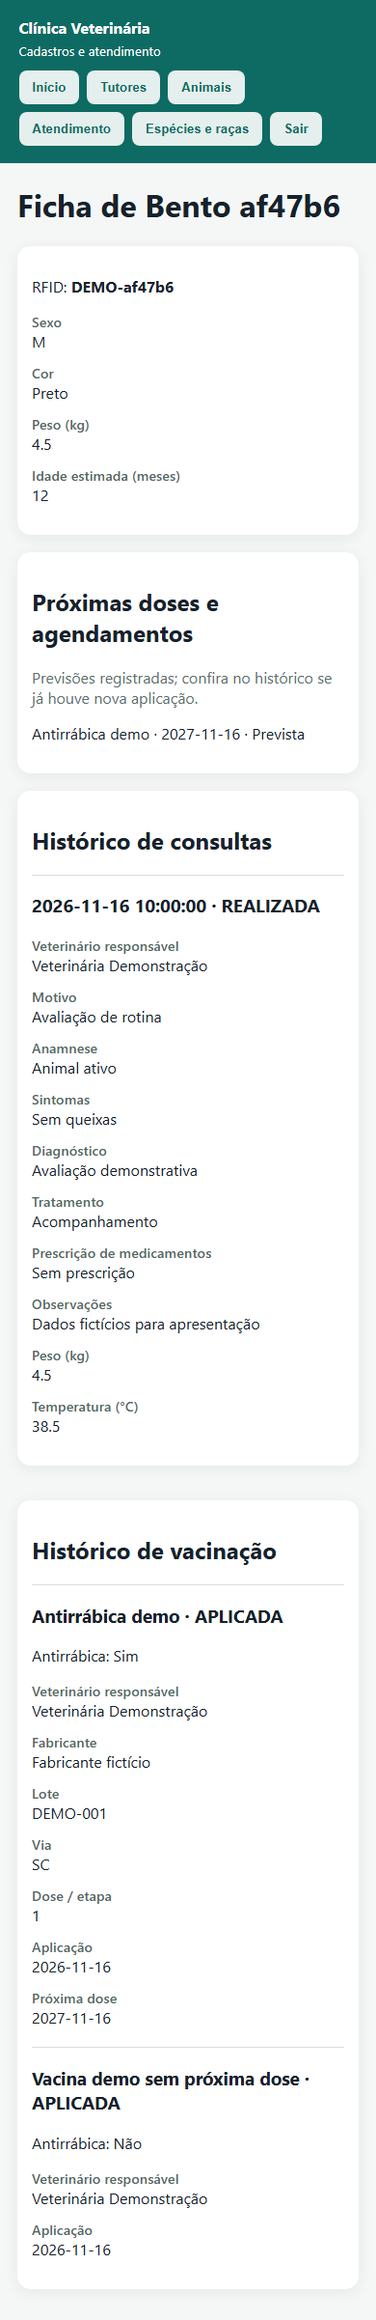
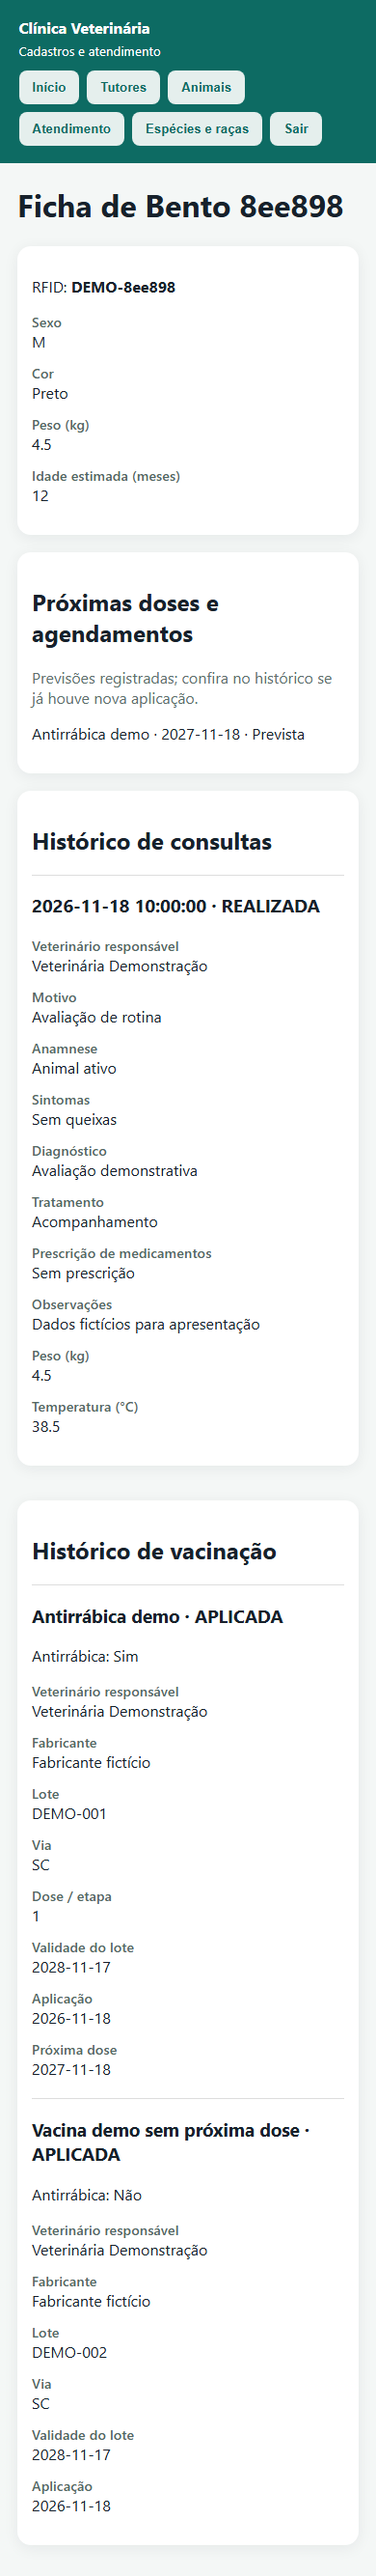
Alinha validações clínicas ao modelo de requisitos

diff --git a/frontend/app.js b/frontend/app.js
@@ -409,7 +409,7 @@ function clinica() {
       '<section class="card"><h2>Consulta</h2><form id="consulta">' +
       opcoesAnimais() +
       campo("data_hora", "Data e hora da consulta", "datetime-local", true) +
-      situacoes(["REALIZADA", "AGENDADA", "CANCELADA"]) +
+      situacoes(["REALIZADA", "AGENDADA", "CANCELADA", "NAO_COMPARECEU"]) +
       Object.entries(camposConsulta)
         .map(([n, t]) => texto(n, t))
         .join("") +
@@ -458,6 +458,30 @@ function clinica() {
       );
     });
   }
+  const consulta = document.querySelector("#consulta");
+  const vacina = document.querySelector("#vacina");
+  function exigirConsulta() {
+    const realizada = consulta.elements.situacao.value === "REALIZADA";
+    consulta.elements.peso_registrado_kg.required = realizada;
+  }
+  function exigirVacina() {
+    const aplicada = vacina.elements.situacao.value === "APLICADA";
+    for (const nome of [
+      "fabricante",
+      "numero_lote",
+      "via_aplicacao",
+      "validade_lote",
+      "data_aplicacao",
+    ]) {
+      vacina.elements[nome].required = aplicada;
+    }
+    vacina.elements.data_agendada.required =
+      vacina.elements.situacao.value === "AGENDADA";
+  }
+  consulta.elements.situacao.onchange = exigirConsulta;
+  vacina.elements.situacao.onchange = exigirVacina;
+  exigirConsulta();
+  exigirVacina();
 }
 function detalhes(registro, campos) {
   return (

diff --git a/api_clinica/clinica.py b/api_clinica/clinica.py
@@ -27,12 +27,16 @@ class Consulta(DadosClinicos):
     prescricao_medicamentos: str | None = None
     peso_registrado_kg: Decimal | None = Field(default=None, gt=0, max_digits=8, decimal_places=3)
     temperatura_c: Decimal | None = Field(default=None, gt=0, lt=100, max_digits=5, decimal_places=2)
-    situacao: Literal["REALIZADA", "AGENDADA", "CANCELADA"] = "REALIZADA"
+    situacao: Literal["REALIZADA", "AGENDADA", "CANCELADA", "NAO_COMPARECEU"] = "REALIZADA"
 
     @model_validator(mode="after")
     def data_local(self):
         if self.data_hora.tzinfo is not None:
             raise ValueError("Informe data e hora local da clínica, sem fuso horário")
+        if self.situacao == "REALIZADA" and self.peso_registrado_kg is None:
+            raise ValueError("Informe o peso registrado para uma consulta realizada")
+        if self.situacao != "AGENDADA" and self.data_hora > datetime.now():
+            raise ValueError("Somente consultas agendadas podem ter data futura")
         return self
 
 class Vacina(DadosClinicos):
@@ -55,6 +59,17 @@ class Vacina(DadosClinicos):
     def validar_datas(self):
         if self.situacao == "APLICADA" and not self.data_aplicacao:
             raise ValueError("Informe a data de aplicação")
+        if self.situacao == "APLICADA":
+            faltando = [
+                nome for nome, valor in {
+                    "fabricante": self.fabricante,
+                    "número do lote": self.numero_lote,
+                    "via de aplicação": self.via_aplicacao,
+                    "validade do lote": self.validade_lote,
+                }.items() if not valor
+            ]
+            if faltando:
+                raise ValueError("Informe " + ", ".join(faltando) + " para vacina aplicada")
         if self.situacao == "AGENDADA" and not self.data_agendada:
             raise ValueError("Informe a data agendada")
         if self.situacao != "APLICADA" and (self.data_aplicacao or self.proxima_dose_em):
@@ -69,8 +84,8 @@ class Vacina(DadosClinicos):
         return self
 
 def ensure_animal(db, animal_id):
-    if not query(db, "SELECT id FROM animal WHERE id = %s", (animal_id,)):
-        raise HTTPException(404, "Animal não encontrado")
+    if not query(db, "SELECT id FROM animal WHERE id = %s AND situacao = 'ATIVO'", (animal_id,)):
+        raise HTTPException(404, "Animal não encontrado ou inativo")
 
 def insert_clinical(db, table, model, extra):
     values = model.model_dump()

diff --git a/tests/entrega3.py b/tests/entrega3.py
@@ -50,7 +50,8 @@ class EntregaTres(unittest.TestCase):
         self.assertEqual(consulta.status_code, 201, consulta.text)
         vacina = dict(animal_id=animal_id, nome_vacina="Antirrábica teste", antirrabica=True,
                       data_aplicacao=str(date.today()), proxima_dose_em=str(date.today() + timedelta(days=365)),
-                      fabricante="Fictício", numero_lote="DEMO", via_aplicacao="SC", dose_etapa="1", situacao="APLICADA")
+                      fabricante="Fictício", numero_lote="DEMO", via_aplicacao="SC",
+                      validade_lote=str(date.today() + timedelta(days=730)), dose_etapa="1", situacao="APLICADA")
         self.assertEqual(self.client.post("/clinica/vacinas", json=vacina).status_code, 201)
         sem_proxima = {**vacina, "proxima_dose_em": None, "antirrabica": False}
         self.assertEqual(self.client.post("/clinica/vacinas", json=sem_proxima).status_code, 201)
@@ -78,6 +79,11 @@ class EntregaTres(unittest.TestCase):
                 self.assertEqual(self.client.post("/clinica/vacinas", json=dados).status_code, 422)
         self.assertEqual(self.client.post("/clinica/consultas", json={
             "animal_id": animal_id, "data_hora": "2026-01-10T10:00:00", "situacao": "INVALIDA"}).status_code, 422)
+        self.assertEqual(self.client.post("/clinica/consultas", json={
+            "animal_id": animal_id, "data_hora": "2026-01-10T10:00:00", "situacao": "REALIZADA"}).status_code, 422)
+        self.assertEqual(self.client.post("/clinica/consultas", json={
+            "animal_id": animal_id, "data_hora": "2026-01-10T10:00:00",
+            "situacao": "NAO_COMPARECEU"}).status_code, 201)
 
     def test_agendamento_cancelamento_e_atraso(self):
         animal_id = self.criar_animal()

diff --git a/tests/demo_web.py b/tests/demo_web.py
@@ -89,6 +89,7 @@ with sync_playwright() as p:
     vacina.get_by_label("Número do lote").fill("DEMO-001")
     vacina.get_by_label("Via de aplicação").fill("SC")
     vacina.get_by_label("Dose / etapa").fill("1")
+    vacina.get_by_label("Validade do lote", exact=True).fill(str(date.today() + timedelta(days=730)))
     vacina.get_by_label("Data de aplicação", exact=True).fill(str(date.today()))
     vacina.get_by_label("Próxima dose (opcional)").fill(str(date.today() + timedelta(days=365)))
     vacina.get_by_role("button", name="Registrar vacina").click()
@@ -96,6 +97,10 @@ with sync_playwright() as p:
     # Confirma o caso antes quebrado: próxima dose em branco.
     vacina.get_by_role("combobox", name="Animal", exact=True).select_option(label=nome_animal)
     vacina.get_by_label("Nome da vacina").fill("Vacina demo sem próxima dose")
+    vacina.get_by_label("Fabricante", exact=True).fill("Fabricante fictício")
+    vacina.get_by_label("Número do lote").fill("DEMO-002")
+    vacina.get_by_label("Via de aplicação").fill("SC")
+    vacina.get_by_label("Validade do lote", exact=True).fill(str(date.today() + timedelta(days=730)))
     vacina.get_by_label("Data de aplicação", exact=True).fill(str(date.today()))
     vacina.get_by_role("button", name="Registrar vacina").click()
     expect(page.get_by_role("status")).to_contain_text("Vacina registrada")

diff --git a/README.md b/README.md
@@ -108,8 +108,10 @@ Consultas e vacinas recebem o veterinário da sessão. As datas e horas de consu
 são informadas no horário local da clínica, sem conversão de fuso.
 
 Em Atendimento estão todos os campos clínicos do modelo. A vacina aplicada exige
-data de aplicação; a agendada exige data de agendamento. Próxima dose e validade do
-lote são conferidas quando informadas. A ficha mostra os detalhes e diferencia
+data de aplicação, fabricante, lote, via de aplicação e validade do lote; a agendada
+exige data de agendamento. Próxima dose e validade do lote são conferidas quando
+informadas. Consultas realizadas exigem o peso registrado; a situação também permite
+`NAO_COMPARECEU`. A ficha mostra os detalhes e diferencia
 previsões futuras de datas que já passaram. Não há baixa automática de uma previsão
 ao registrar uma nova aplicação: confira o histórico.
 

diff --git a/docs/evidencias-milestone-3.md b/docs/evidencias-milestone-3.md
@@ -13,7 +13,9 @@ Resultado: **7 testes passaram** (1 da Milestone 2 e 6 da Milestone 3).
 - Animal sem raça e sem nascimento, usando idade estimada.
 - RFID duplicado retorna 409 e mensagem específica.
 - Vacina com e sem próxima dose; classificação antirrábica preservada.
+- Vacina aplicada exige fabricante, lote, via e validade; consulta realizada exige peso.
 - Datas incoerentes, situação inválida e tentativa de escolher outro veterinário rejeitadas com 422.
+- Consulta com `NAO_COMPARECEU` registrada e apresentada no histórico.
 - Agendamento atrasado identificado; vacina cancelada excluída das previsões.
 - CEP inexistente, timeout e serviço indisponível: respostas externas simuladas nos testes automatizados.
 - Acesso sem token e token revogado rejeitados.
